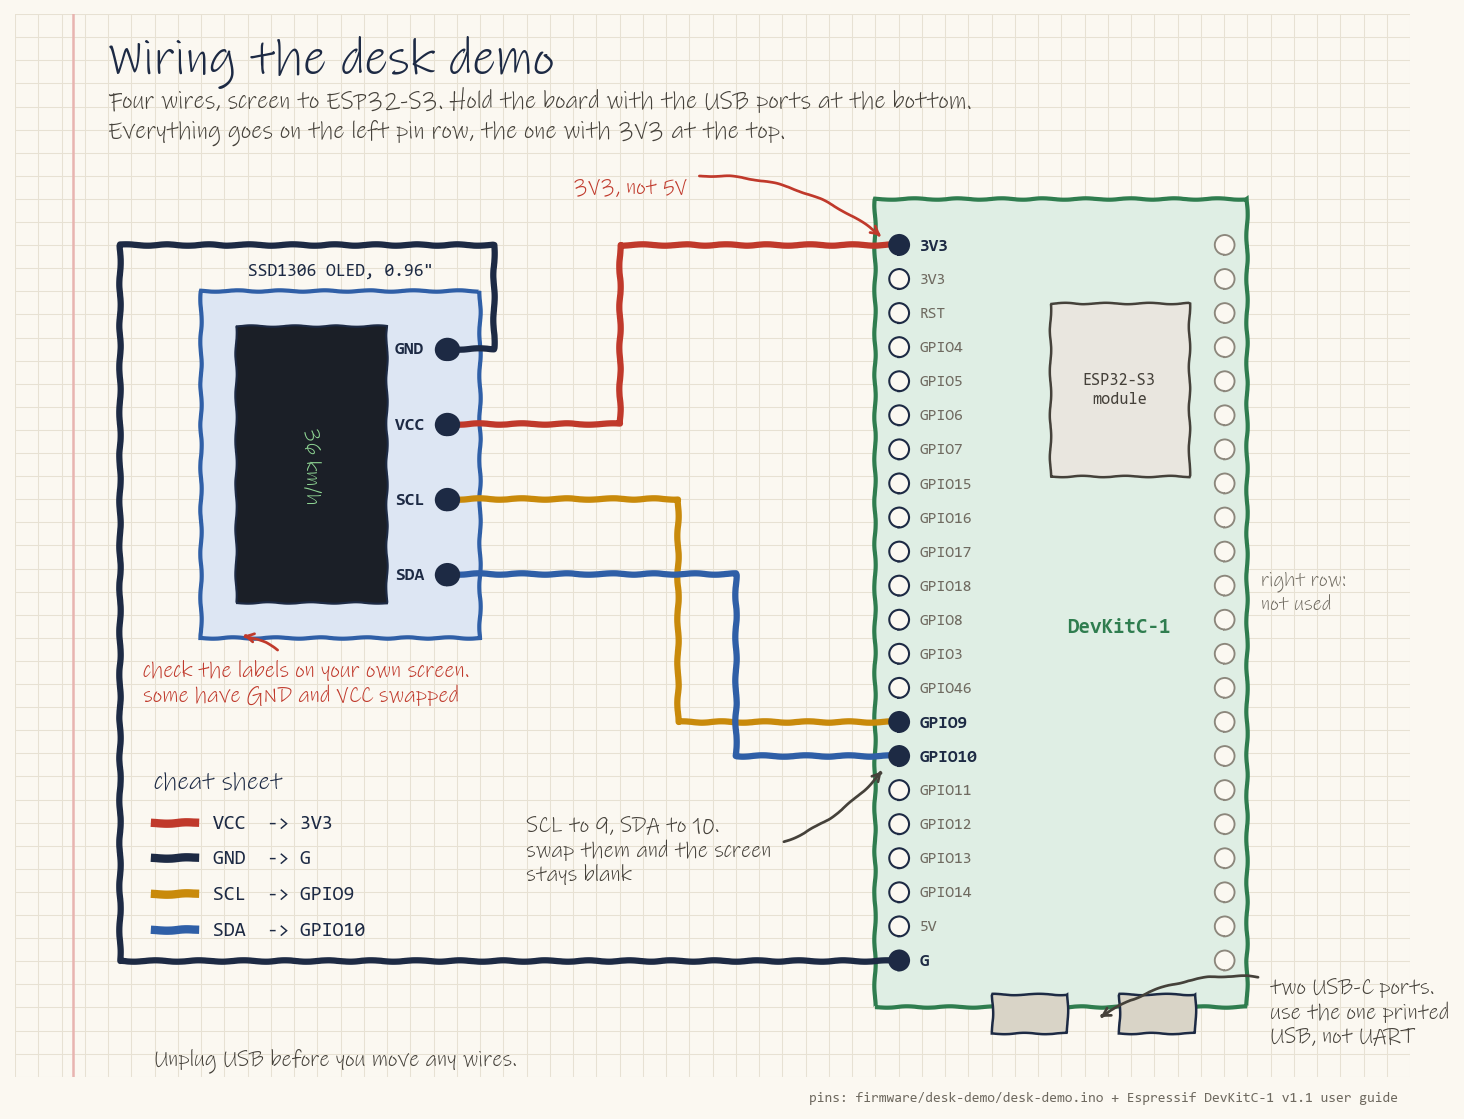
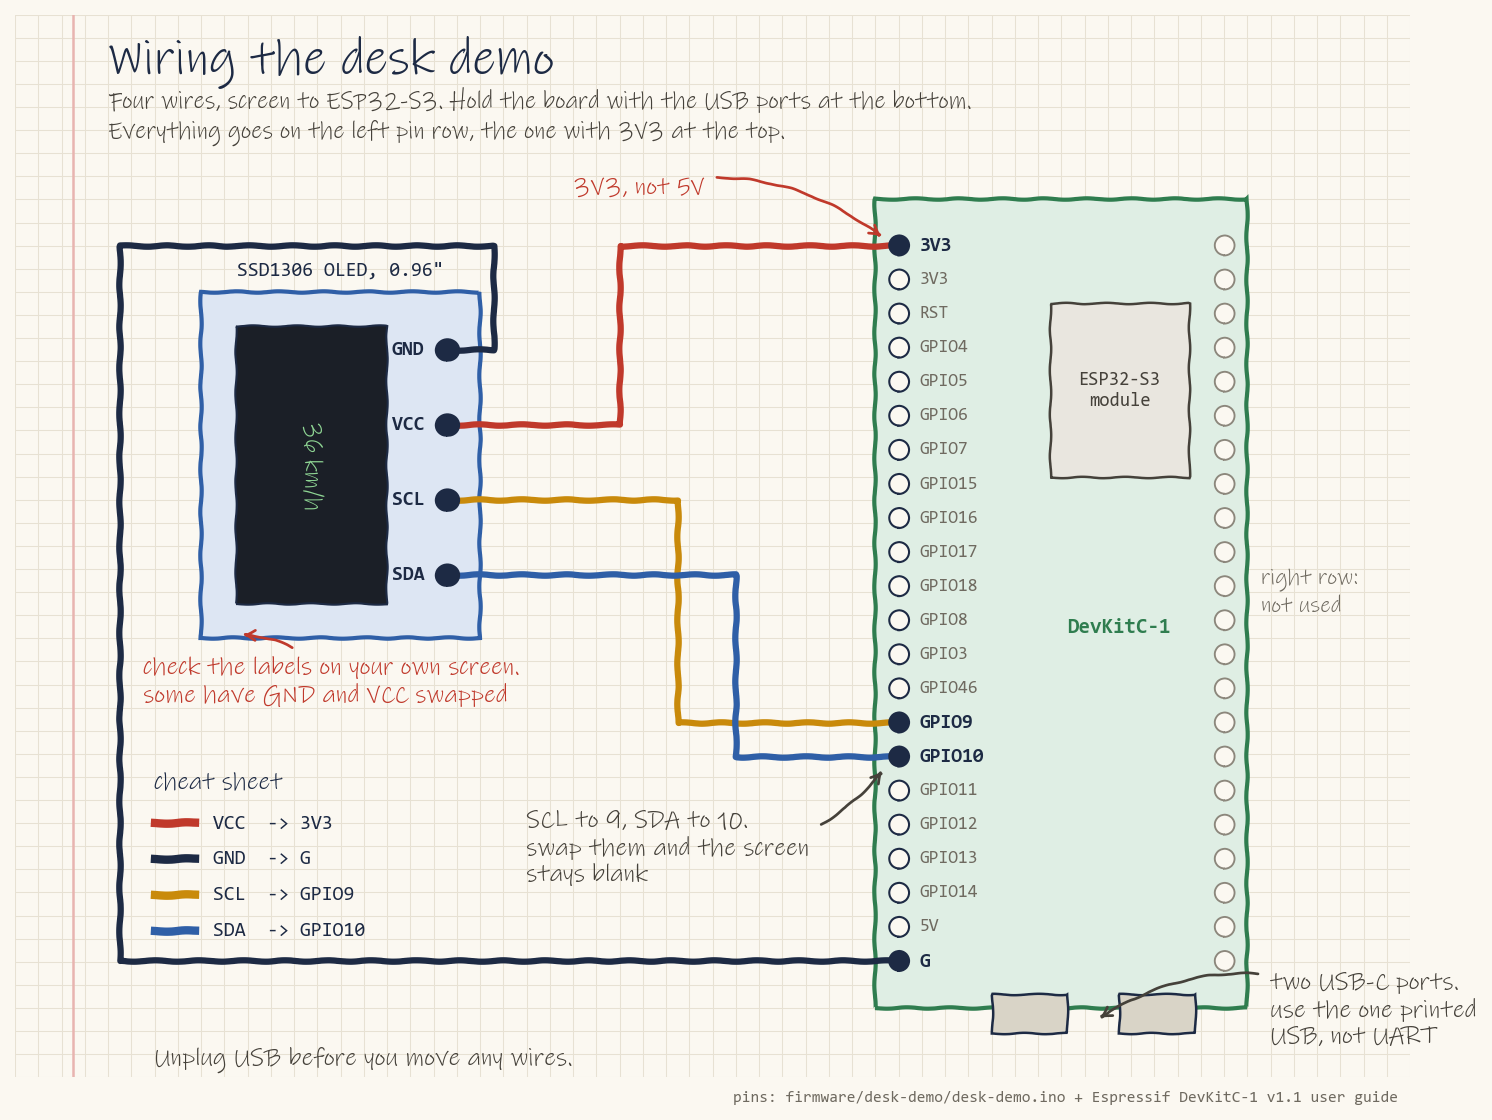
Bigger diagram text, frame welds term project (#30), name both Electrium team leads

Changed region(s): [[0.0307, 0.0, 1.0, 0.9723], [0.4918, 0.9723, 0.9529, 1.0]]

diff --git a/docs/diagrams/term-project-map.py b/docs/diagrams/term-project-map.py
@@ -29,8 +29,8 @@ for y, name, col in [(84, 'electrical', GOLD), (54, 'firmware', BLUE), (29, 'mec
     ax.plot([8, 146], [y - 2.6, y - 2.6], color=col, lw=0.8, alpha=0.5, zorder=1)
 
 node('#21', 30, 75, 'battery pack', 'after #7', GOLD)
-node('#18', 30, 63, 'bench test', 'after #1, #7. on the pack: #19, #21', GOLD, w=26)
-node('#19', 64, 75, 'BMS + charge port', 'after #7', GOLD)
+node('#18', 31, 63, 'bench test', 'after #1, #7. pack: #19, #21', GOLD, w=28)
+node('#19', 65, 75, 'BMS + charge port', 'after #7', GOLD, w=27)
 node('#20', 100, 69, 'wiring harness', 'plan after #10', GOLD)
 
 node('#23', 30, 42, 'screen or not?', 'after #12', BLUE)
@@ -40,22 +40,23 @@ node('#24', 64, 42, '2026 display', 'after #12', BLUE)
 
 node('#25', 30, 19, 'new steering', 'after onboarding', GREEN)
 node('#27', 30, 7, 'fix cargo box', 'after onboarding', GREEN)
-node('#26', 70, 19, 'mount everything', 'after #3', GREEN)
+node('#26', 70, 19, 'mount everything', 'after #3', GREEN, w=27)
 node('#28', 70, 7, 'missing parts', 'after #2 and #3', GREEN)
 node('#6', 102, 7, 'frame FEA', 'after #4, with the lead', GREEN)
-node('#29', 132, 13, 'repaint', 'after #6 + welding', GREEN, w=22)
+node('#30', 102, 19, 'frame welds', 'WIP, after #2, #4, #6', GREEN)
+node('#29', 132, 13, 'repaint', 'after #30', GREEN, w=22)
 
 edge('#18', '#20', GOLD, rad=0.08); edge('#19', '#20', GOLD, rad=-0.05)
 edge('#23', '#24', BLUE)
 edge('#22', '#24', BLUE, dashed=True, side=('l', 'r'))
 edge('#25', '#26', GREEN, dashed=True)
-edge('#6', '#29', GREEN, rad=0.1)
+edge('#6', '#30', GREEN, side=('t', 'b'))
+edge('#30', '#29', GREEN, rad=-0.1)
 edge('#18', '#22', GOLD, dashed=True, rad=-0.12)
 
 point(ax, (114, 84), (104, 74.2), 'building waits for\n#18 and #19', color=PENCIL, rad=0.3, ha='left')
 point(ax, (114, 56), (106, 49.2), 'testing needs the\n#18 bench setup', color=PENCIL, rad=0.3, ha='left')
 point(ax, (86, 29), (79, 24.2), 'part sizes come from\n#19 (BMS) and #21 (battery)', color=PENCIL, rad=0.25, ha='left')
-note(ax, 114, 32, '#23, #25 and #27 can start as soon\nas you finish onboarding', size=10.5, color=INK, linespacing=1.2)
-note(ax, 108, 23.5, 'repaint goes last, once\nnothing else needs welding', size=10, color=PENCIL, linespacing=1.2)
+note(ax, 114, 36.5, '#23, #25 and #27 can start as soon\nas you finish onboarding', size=10.5, color=INK, linespacing=1.2)
 mono(ax, 149, -2.5, 'from the "Start after" column in ONBOARDING.md and docs/term-projects.md', size=7, color='#6f6a60', ha='right')
 save(fig, os.path.join(HERE, 'term-project-map.png'))

diff --git a/electrical/diagrams/pack-12s3p.py b/electrical/diagrams/pack-12s3p.py
@@ -32,7 +32,7 @@ for g in range(12):
 # underside strips (dashed): link 2-3, 4-5 ...
 for g in range(1, 11, 2):
     ax.add_patch(Rectangle((xs[g] - 1.2, ys[2] - 4.6), xs[g + 1] - xs[g] + 2.4, 1.6, fc='none', ec=PENCIL, lw=1.1, ls=(0, (3, 2))))
-note(ax, xs[-1] + 4.2, ys[2] - 3.5, 'dashed boxes:\nstrips on the\nunderside', size=9, color=PENCIL, ha='left', linespacing=1.1)
+note(ax, xs[-1] + 2, ys[2] - 14, 'dashed boxes:\nstrips on the\nunderside', size=9, color=PENCIL, ha='left', linespacing=1.1)
 # ends
 note(ax, xs[0] - 4.2, ys[1], 'B-', size=15, color=INK, ha='right', weight='bold')
 note(ax, xs[0] - 4.2, ys[1] - 4, 'underside of\ngroup 1', size=8.5, color=PENCIL, ha='right', linespacing=1)
@@ -50,15 +50,15 @@ note(ax, (xs[0] + xs[-1]) / 2, 39.2, 'voltage adds up group by group (the "12S")
 
 # balance wires
 cy = 76
-ax.add_patch(Rectangle((xs[3] - 2, cy - 1.4), xs[10] - xs[3] + 4, 3.2, fc='#e4ebf5', ec=BLUE, lw=1.6))
-mono(ax, (xs[3] + xs[10]) / 2, cy + 0.2, 'balance plug -> BMS', size=9, color=BLUE, ha='center', weight='bold')
+ax.add_patch(Rectangle((xs[4] - 2, cy - 1.4), xs[11] - xs[4] + 4, 3.2, fc='#e4ebf5', ec=BLUE, lw=1.6))
+mono(ax, (xs[4] + xs[11]) / 2, cy + 0.2, 'balance plug -> BMS', size=9, color=BLUE, ha='center', weight='bold')
 taps = [xs[0] - r - 0.4] + [(xs[g] + xs[g + 1]) / 2 for g in range(11)] + [xs[-1] + r + 0.4]
 for k, x in enumerate(taps):
-    tx = xs[3] - 1 + k * (xs[10] - xs[3] + 2) / 12
+    tx = xs[4] - 1 + k * (xs[11] - xs[4] + 2) / 12
     ax.plot([x, x, tx], [ys[0] + r + 0.4 if 0 < k < 12 else ys[1], 71, cy - 1.4], color=BLUE, lw=0.9)
     if k in (0, 3, 4, 12):
         mono(ax, x + (0.6 if k else -2.2), 70.4 if 0 < k < 12 else ys[1] + 6.5, f'B{k}', size=7.6, color=BLUE, ha='left' if k else 'right', va='top')
-point(ax, (122, 82), (xs[10] + 2.2, cy), '13 thin wires, one per join.\nthe BMS watches every group\nthrough these', color=BLUE, rad=-0.25, ha='left')
+point(ax, (120, 86.5), (xs[11] - 4, cy + 1.8), '13 thin wires, one per join.\nthe BMS watches every group\nthrough these', color=BLUE, rad=-0.25, ha='left')
 
 # notes at the bottom
 note(ax, 8, 30, 'the numbers', size=13, weight='bold')

diff --git a/docs/diagrams/onboarding-path.py b/docs/diagrams/onboarding-path.py
@@ -11,21 +11,21 @@ note(ax, 8, 75.2, 'Everyone does steps 1 to 4. Then you follow your subteam\'s l
      size=11.5, color=PENCIL)
 
 MID = 42
-def stop(x, y, label, head, body, col=INK, r=2.4):
+def stop(x, y, label, head, body, col=INK, r=2.4, bsize=9.2):
     ax.add_patch(Circle((x, y), r, fc=PAPER, ec=col, lw=2.2, zorder=3))
     note(ax, x, y, label, size=11 if len(label) < 2 else 9, color=col, ha='center', weight='bold', zorder=4)
     note(ax, x, y - 4, head, size=11, weight='bold', ha='center', va='top', color=col)
-    if body: note(ax, x, y - 7.4, body, size=9.2, ha='center', va='top', color=PENCIL, linespacing=1.15)
+    if body: note(ax, x, y - 7.4, body, size=bsize, ha='center', va='top', color=PENCIL, linespacing=1.15)
 def s_curve(x0, y0, x1, y1, col, lw=3):
     t = np.linspace(0, 1, 50); s = (1 - np.cos(np.pi * t)) / 2
     ax.plot(x0 + (x1 - x0) * t, y0 + (y1 - y0) * s, color=col, lw=lw, zorder=1)
 
 # shared start
 ax.plot([12, 66], [MID, MID], color=INK, lw=3, zorder=1)
-stop(12, MID, '1', 'accounts', 'GitHub account,\njoin Discord, post\nyour username.\n~10 min')
-stop(28, MID, '2', 'get the files', 'clone with GitHub\nDesktop. new to Git?\nwatch the video first.\n~30 min')
-stop(44, MID, '3', 'install', 'SolidWorks, KiCad\nor Arduino IDE.\n~20 min, SolidWorks\na few hours')
-stop(60, MID, '4', 'WHMIS', 'about an hour on\nLEARN. needed for\nbay work, not Stage 1.\n~1 hour', RED)
+stop(12, MID, '1', 'accounts', 'GitHub account,\njoin Discord,\npost username.\n~10 min', bsize=8)
+stop(28, MID, '2', 'get the files', 'clone with\nGitHub Desktop.\nGit video first.\n~30 min', bsize=8)
+stop(44, MID, '3', 'install', 'SolidWorks,\nKiCad or\nArduino IDE.\n~20 min, or a few\nhours for SolidWorks', bsize=8)
+stop(60, MID, '4', 'WHMIS', 'an hour on LEARN.\nneeded for bay\nwork, not Stage 1', RED, bsize=8)
 
 lanes = [(GREEN, 64, 'mechanical', 'open the bike in\nSolidWorks, post\na screenshot', 'e.g. #2, #3, #5, #6'),
          (GOLD, MID, 'electrical', 'read the anti-spark\nschematic, notes\non #8', 'e.g. #7, #9, #10, #11'),

diff --git a/docs/diagrams/notebook.py b/docs/diagrams/notebook.py
@@ -15,11 +15,14 @@ def page(w,h,figsize):
         ax.plot([5,5],[0,h],color=MARGIN,lw=1.2,zorder=0)
     return fig,ax
 def note(ax,x,y,s,size=11,color=INK,**kw):
+    if size < 11: size = round(size * 1.15, 1)
     kw.setdefault('va','center'); return ax.text(x,y,s,fontsize=size,color=color,family=HAND,**kw)
 def mono(ax,x,y,s,size=9,color=INK,**kw):
+    if size < 9: size = round(size * 1.12, 1)
     kw.setdefault('va','center'); return ax.text(x,y,s,fontsize=size,color=color,family=MONO,**kw)
 def point(ax,text_xy,target,s,size=10.5,color=PENCIL,rad=0.3,**kw):
+    if size < 11: size = round(size * 1.15, 1)
     ax.annotate(s,xy=target,xytext=text_xy,fontsize=size,color=color,family=HAND,
-        arrowprops=dict(arrowstyle='->',color=color,lw=1.3,connectionstyle=f'arc3,rad={rad}',shrinkA=4,shrinkB=3),**kw)
+        arrowprops=dict(arrowstyle='->',color=color,lw=1.3,connectionstyle=f'arc3,rad={rad}',shrinkA=4,shrinkB=3,relpos=kw.pop('relpos',(0.5,0.5))),**kw)
 def save(fig,name):
     fig.savefig(name,bbox_inches='tight',facecolor=PAPER); print('saved',name)

diff --git a/electrical/diagrams/bakfiets-power-flow.py b/electrical/diagrams/bakfiets-power-flow.py
@@ -83,7 +83,7 @@ lx, ly = 9, 34
 note(ax, lx, ly, 'key', size=12, weight='bold')
 line([lx, lx + 4], [ly - 3.2, ly - 3.2], RED, 5); note(ax, lx + 5.5, ly - 3.2, 'battery +', size=9.5)
 line([lx, lx + 4], [ly - 6.4, ly - 6.4], INK, 4); note(ax, lx + 5.5, ly - 6.4, 'battery -', size=9.5)
-ax.plot([lx + 14, lx + 18], [ly - 3.2, ly - 3.2], color=GOLD, lw=2.4); note(ax, lx + 19.5, ly - 3.2, '5V', size=9.5)
-ax.plot([lx + 14, lx + 18], [ly - 6.4, ly - 6.4], color=BLUE, lw=2, ls=(0, (4, 3))); note(ax, lx + 19.5, ly - 6.4, 'signals', size=9.5)
+ax.plot([lx + 18, lx + 22], [ly - 3.2, ly - 3.2], color=GOLD, lw=2.4); note(ax, lx + 23.5, ly - 3.2, '5V', size=9.5)
+ax.plot([lx + 18, lx + 22], [ly - 6.4, ly - 6.4], color=BLUE, lw=2, ls=(0, (4, 3))); note(ax, lx + 23.5, ly - 6.4, 'signals', size=9.5)
 mono(ax, 149, -2, 'redrawn from the 2024 block diagram (high-level-circuit-diagram-2024.png); fuse, BMS side, brake cut-off and UART added from issues #18 to #22', size=6.6, color='#6f6a60', ha='right')
 save(fig, os.path.join(HERE, 'bakfiets-power-flow.png'))

diff --git a/docs/diagrams/bike-overview.py b/docs/diagrams/bike-overview.py
@@ -20,15 +20,15 @@ def P(px, py): return (X0 + (X1 - X0) * px / W, Y1 - (Y1 - Y0) * py / H)
 labels = [
     ((8, 84), P(215, 70), 'seat', 0.2),
     ((40, 84), P(560, 125), 'handlebars. a rod under the frame\nlinks them to the front fork', -0.25),
-    ((4.5, 24), P(90, 330), 'rear wheel', -0.3),
+    ((4.5, 24), P(90, 330), 'rear wheel', -0.15),
     ((20, 2.2), P(330, 285), 'frame: a normal back half plus a\nlong, low section that carries the box', 0.3),
-    ((52, 2.2), P(640, 610), 'kickstand', 0.3),
+    ((61, 2.2), P(640, 610), 'kickstand', 0.3),
     ((74, 3.5), P(870, 700), 'front wheel (drawn smaller in the CAD;\nthe website says 26"). check in #4', 0.3),
     ((96, 44), P(800, 400), 'front fork', 0.2),
     ((70, 80), P(560, 330), 'wooden cargo box', -0.3),
 ]
 for txt, tgt, s, rad in labels:
-    point(ax, txt, tgt, s, size=10.5, color=INK, rad=rad)
+    point(ax, txt, tgt, s, size=10.5, color=INK, rad=rad, relpos=(1, 1) if s == 'rear wheel' else (0.5, 0.5))
 
 # right column: what's still to come
 cx = 108

diff --git a/docs/diagrams/submit-workflow.py b/docs/diagrams/submit-workflow.py
@@ -47,7 +47,7 @@ point(ax, (38.5, 33.5), (45, BR_Y + 6), '', rad=-0.25)
 
 step(56, 35, 3, 'work, then commit', '[Summary box, then\n Commit to <branch>]', 'each dot is one commit.\ncommit whenever something works.\nstill only on your laptop')
 
-step(86, 35, 4, 'push', '[Publish branch]\nlater: [Push origin]', 'now your branch is on GitHub')
+step(86, 35, 4, 'push', '[Publish branch]\nlater: [Push origin]', "now it's on GitHub")
 
 step(112, 35, 5, 'pull request', '[Create Pull Request]', 'say what you did.\nadd "Closes #5" so the\nissue closes with it.')
 point(ax, (110, 26), (108.5, BR_Y + 3.5), '', rad=0.3)

diff --git a/electrical/diagrams/motor-controller-connections.py b/electrical/diagrams/motor-controller-connections.py
@@ -18,7 +18,7 @@ def thin(xs, ys, c, ls='-'): ax.plot(xs, ys, color=c, lw=2, ls=ls, solid_capstyl
 
 Y = 64
 block(8, 56, 20, 16, 'battery', '12S3P\n36 to 50.4V', RED)
-block(8, 39, 20, 11, 'BMS', 'pack B- in,\nP- out to the controller', RED)
+block(8, 39, 20, 11, 'BMS', 'pack B- in,\nP- out', RED)
 thick([18, 18], [56, 50], INK, lw=4)
 thick([28, 42, 42, 92], [44.5, 44.5, 54, 54], INK, lw=4)
 note(ax, 44, 55.8, 'negative (P-) to the controller', size=9, color=INK)

diff --git a/docs/diagrams/team-structure.py b/docs/diagrams/team-structure.py
@@ -18,7 +18,7 @@ def link(x0, y0, x1, y1, col=INK):
     ax.plot([x0, x0, x1, x1], [y0, ym, ym, y1], color=col, lw=2, zorder=1)
 
 # club level
-role(52, 82, 40, 14, 'Electrium leadership', 'sets our term goals', PENCIL)
+role(52, 82, 40, 14, 'Electrium team leads', 'two of them. they set our\nterm goals', PENCIL)
 role(108, 82, 36, 14, 'Electrium safety captain', 'inspects our bay in the first\nweek of each month', RED, dashed=True)
 
 # project lead

diff --git a/ONBOARDING.md b/ONBOARDING.md
@@ -108,7 +108,7 @@ The 2024 files disagree on a few basics. Below is the answer we're working from 
 
 - **Our answer:** a 500 W hub motor driven by an FSESC 6.7, a VESC-based motor controller made by Flipsky.
 - **Why:** the club website names that exact controller. The 2024 README and the crank-motor CAD model (`mechanical/cad-2024/MotorCrank/`) point to a Bafang BBS02 mid-drive instead, but they are from early 2024. The website's later W2024 and W2025 pages both name the hub motor and FSESC.
-- **How to check:** look at the bike ([issue #1](https://github.com/Electrium-Mobility/Bakfiets-F26/issues/1)). A hub motor is a thick drum around a wheel's axle, with a cable coming out of the axle. A BBS02 is a box at the pedals that replaces the crank and chainring. Photograph any separate controller box and its label. Ling, Electrium's team lead, is also tracking down the motor that was meant for the bike.
+- **How to check:** look at the bike ([issue #1](https://github.com/Electrium-Mobility/Bakfiets-F26/issues/1)). A hub motor is a thick drum around a wheel's axle, with a cable coming out of the axle. A BBS02 is a box at the pedals that replaces the crank and chainring. Photograph any separate controller box and its label. Ling, one of Electrium's two team leads, is also tracking down the motor that was meant for the bike.
 - **If we're wrong:** a BBS02 has its own built-in controller. The electrical plan would drop the separate ESC, and firmware would read the BBS02's display protocol instead of the VESC's.
 
 #### 2. Which microcontroller runs the screen?
@@ -427,7 +427,7 @@ GitHub's [Hello World guide](https://docs.github.com/en/get-started/start-your-j
 
 ## After Onboarding: Term Projects
 
-Once you've finished your subteam's Stage 1 and one Stage 2 starter task, you're done onboarding. Move on to the main goals for the term, set by Electrium's team lead, Ling.
+Once you've finished your subteam's Stage 1 and one Stage 2 starter task, you're done onboarding. Move on to the main goals for the term, set by Ling, one of Electrium's two team leads (the other is Samantha Chong).
 
 ![Term projects by subteam, with what each one needs finished first](docs/diagrams/term-project-map.png)
 
@@ -459,7 +459,8 @@ Each project is a GitHub issue labelled `term project`. Each issue lists what to
 | 3 | [#26 Mount everything on the frame](https://github.com/Electrium-Mobility/Bakfiets-F26/issues/26) | #3; part sizes come from #19 and #21. Only mounts near the steering wait for #25 |
 | 4 | [#27 Inspect and fix the cargo box](https://github.com/Electrium-Mobility/Bakfiets-F26/issues/27) | Onboarding |
 | 5 | [#28 Find and buy missing bike parts](https://github.com/Electrium-Mobility/Bakfiets-F26/issues/28) | #2 and #3 |
-| 6 | [#29 Repaint the frame](https://github.com/Electrium-Mobility/Bakfiets-F26/issues/29) | Last: after all welding is done and #6 is approved |
+| 6 | [#30 Plan and finish the frame welds (work in progress)](https://github.com/Electrium-Mobility/Bakfiets-F26/issues/30) | #2, #4 and #6; needs a welder who passed the SDC weld test |
+| 7 | [#29 Repaint the frame](https://github.com/Electrium-Mobility/Bakfiets-F26/issues/29) | Last: after #30, once all welding is done and #6 is approved |
 
 Ling is tracking down the motor that was meant to go on the bike. Updates go in [issue #1](https://github.com/Electrium-Mobility/Bakfiets-F26/issues/1). The same list is in the repo at [docs/term-projects.md](docs/term-projects.md).
 

diff --git a/docs/term-projects.md b/docs/term-projects.md
@@ -1,6 +1,6 @@
 # Term projects (after onboarding)
 
-These are the main goals for the term, from the Electrium team lead (Ling). Start them **after onboarding**: once you've finished your subteam's Stage 1 and one Stage 2 starter task from the [onboarding guide](../ONBOARDING.md).
+These are the main goals for the term, from Ling, one of Electrium's two team leads (the other is Samantha Chong). Start them **after onboarding**: once you've finished your subteam's Stage 1 and one Stage 2 starter task from the [onboarding guide](../ONBOARDING.md).
 
 Every project is a GitHub issue with the `term project` label. Each one lists what to finish first, step-by-step instructions, safety notes, links to videos and example code, and a clear "done when". Claim one by commenting "I'll take this".
 
@@ -32,6 +32,7 @@ Every project is a GitHub issue with the `term project` label. Each one lists wh
 | 3 | [#26 Mount everything on the frame](https://github.com/Electrium-Mobility/Bakfiets-F26/issues/26) | #3; part sizes come from #19 and #21. Only mounts near the steering wait for #25 |
 | 4 | [#27 Inspect and fix the cargo box](https://github.com/Electrium-Mobility/Bakfiets-F26/issues/27) | Onboarding |
 | 5 | [#28 Find and buy missing bike parts](https://github.com/Electrium-Mobility/Bakfiets-F26/issues/28) | #2, #3 |
-| 6 | [#29 Repaint the frame](https://github.com/Electrium-Mobility/Bakfiets-F26/issues/29) | All welding done and #6 approved; do this last |
+| 6 | [#30 Plan and finish the frame welds (work in progress)](https://github.com/Electrium-Mobility/Bakfiets-F26/issues/30) | #2, #4 and #6; needs a welder who passed the SDC weld test |
+| 7 | [#29 Repaint the frame](https://github.com/Electrium-Mobility/Bakfiets-F26/issues/29) | Last: after #30, once all welding is done and #6 is approved |
 
 Ling is tracking down the motor that was meant to go on the bike; updates go in [#1](https://github.com/Electrium-Mobility/Bakfiets-F26/issues/1).

diff --git a/docs/meetings/2026-09-30.md b/docs/meetings/2026-09-30.md
@@ -48,7 +48,7 @@ Each subteam gets one lead. A lead:
 - has a short weekly check-in with the project lead about anything blocking the team
 - (electrical only) is there for any battery work
 
-Leading is about keeping your subteam moving and making sure nobody gets stuck. The project lead and Electrium's team lead are there to back you up.
+Leading is about keeping your subteam moving and making sure nobody gets stuck. The project lead and Electrium's team leads, Samantha Chong and Ling, are there to back you up.
 
 **How we'll pick:** anyone interested says so. If one person volunteers for a subteam, they're the lead. If two or more do, they can share it as co-leads, or we take a quick show of hands. If nobody volunteers yet, the project lead covers that subteam for now, and it stays open on [issue #17](https://github.com/Electrium-Mobility/Bakfiets-F26/issues/17).
 
